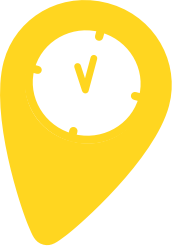
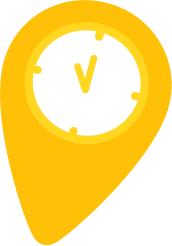
search to be centered

diff --git a/app/assets/stylesheets/home.css.scss b/app/assets/stylesheets/home.css.scss
@@ -2,9 +2,9 @@
 // They will automatically be included in application.css.
 // You can use Sass (SCSS) here: http://sass-lang.com/
 $color: #F7F7F7;
-$yellow : #FFD620;
+$yellow : #FFC107;
 $dark-grey : #676767;
-$title-font:'Pacifico', cursive;
+$title-font: 'Roboto', sans-serif;
 $font: 'Open Sans', sans-serif;
 
 // body {
@@ -101,6 +101,15 @@ $font: 'Open Sans', sans-serif;
 }
 
 .search p {
+  font-size: 1.5rem;
   font-family: $font;
-  color: $yellow;
+  color: white;
+  font-weight: 700;
+  // text-shadow: 0.5px 0.5px 0.5px #676767;
+}
+
+.search {
+  width: 80%;
+  background-color: $yellow;
+  border-radius: 10px;
 }

diff --git a/app/assets/stylesheets/search.css.scss b/app/assets/stylesheets/search.css.scss
@@ -1,4 +1,4 @@
-.twitter-typeahead { width: 70%; }
+.twitter-typeahead { width: 100%; }
 .twitter-typeahead .tt-input, .twitter-typeahead .tt-hint { width: 70%; margin: 0px; padding: 8px 12px; border: 2px solid #ccc; outline: none; }
 .twitter-typeahead .tt-input:focus { border: 2px solid #0097cf; }
 .twitter-typeahead .tt-hint { color: #999; }
@@ -21,6 +21,11 @@
 .search {
   padding-top: 10px;
   padding-bottom: 10px;
+  margin: auto;
+}
+
+.search .input-group {
+  margin: auto;
 }
 
 #query {

diff --git a/app/assets/stylesheets/navbar.css.scss b/app/assets/stylesheets/navbar.css.scss
@@ -1,7 +1,7 @@
 $bg: #6BC5C3;
 $color: #F2EFC2;
-$yellow : #FFD620;
-$title-font:'Pacifico', cursive;
+$yellow : #FFC107;
+$title-font:'Roboto', sans-serif;
 
 .navbar-wagon {
   background: rgba($yellow, 0.9);
@@ -21,7 +21,7 @@ $title-font:'Pacifico', cursive;
   margin-left: auto;
   font-family: $title-font;
   font-weight: 900;
-  font-size: 3rem;
+  font-size: 2rem;
 }
 
 .dropdown-toggle li {

diff --git a/app/assets/stylesheets/sign-in-up.css.scss b/app/assets/stylesheets/sign-in-up.css.scss
@@ -1,5 +1,5 @@
 $title-font: 'Roboto', sans-serif;
-$yellow : #FFD620;
+$yellow : #FFC107;
 $light-grey: #7F7F7F;
 $green : #6BC5C3;
 $font: 'Open Sans', sans-serif;
@@ -97,7 +97,7 @@ p {
 .feature {
   background: white;
   font-weight: 100;
-  background-color: #FFD620;
+  background-color: $yellow;
   padding: 20px;
   height: 200px;
   width: 200px;
